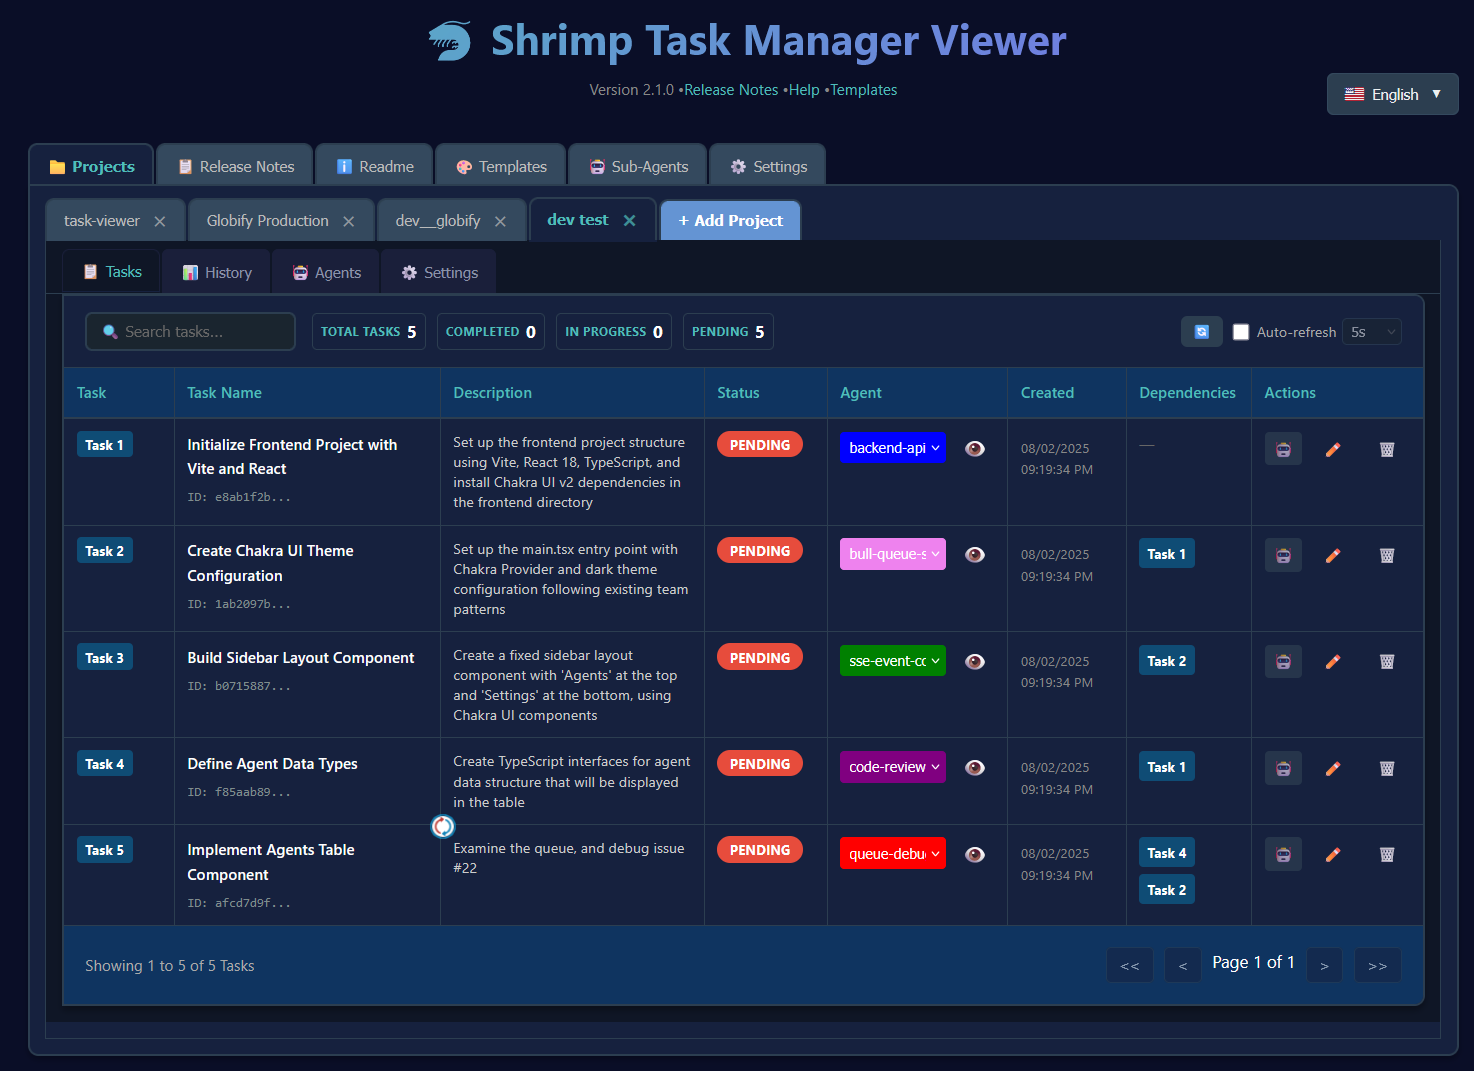
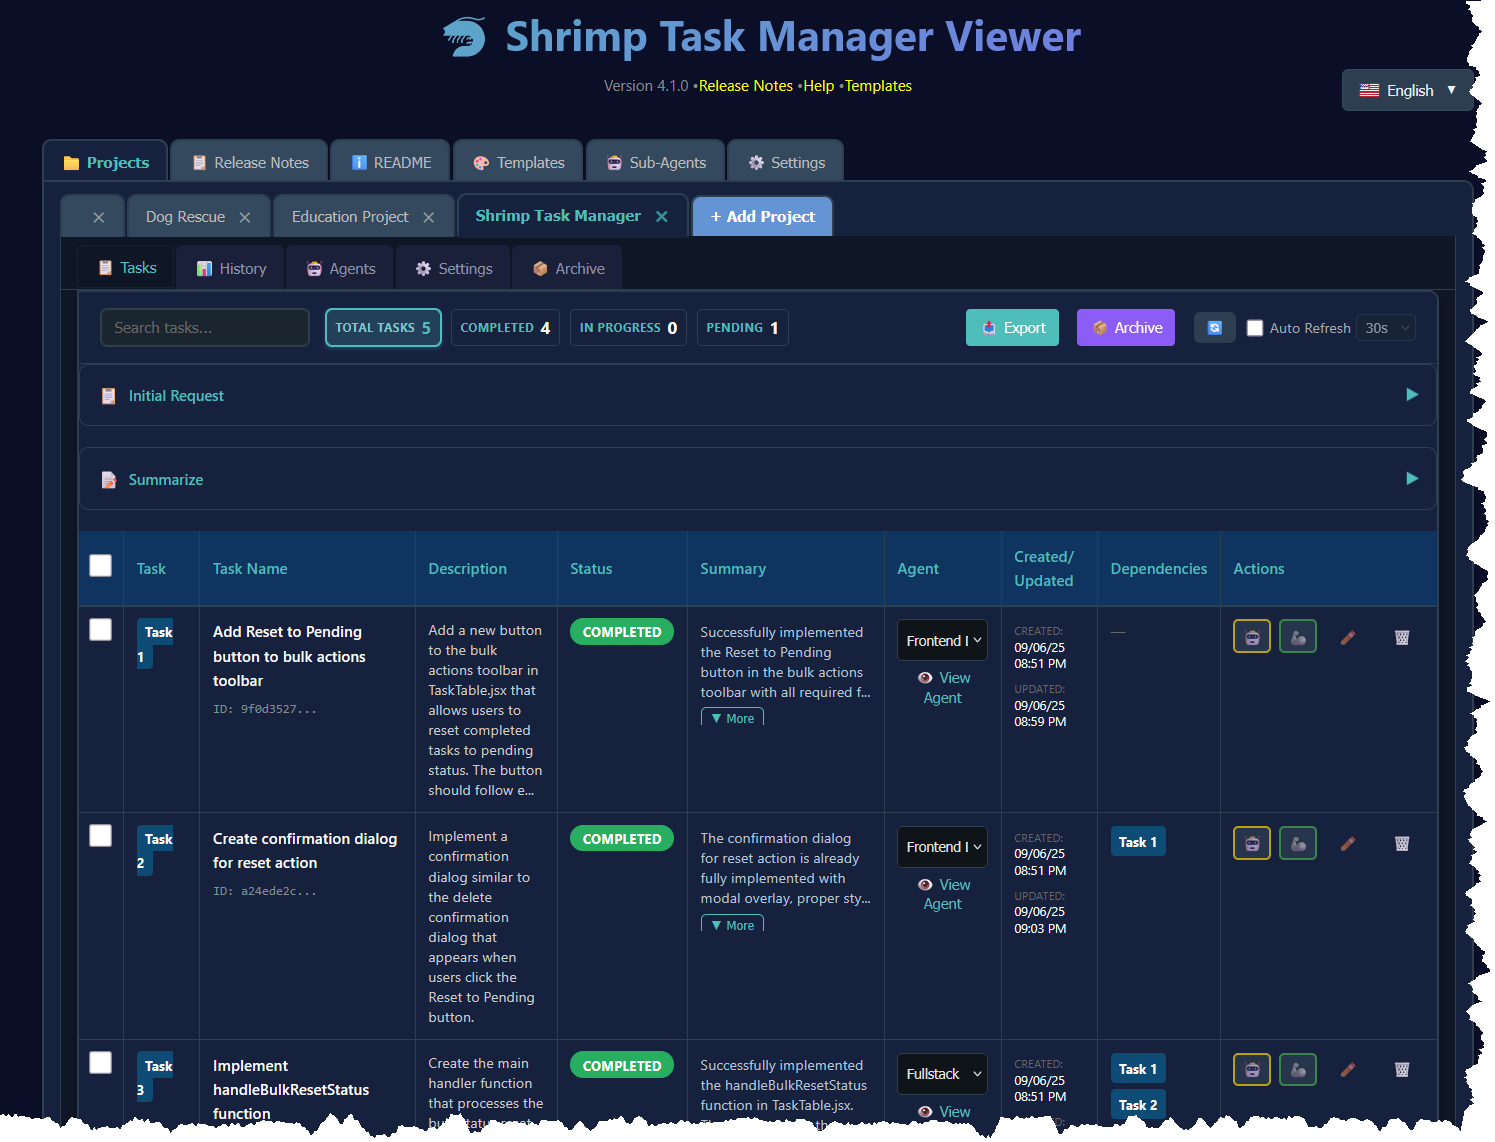
Update README with v4.1.0 and v4.0.0 release notes and new screenshot
- Add v4.1.0 release announcement with key features
- Include v4.0.0 major features section highlighting archive management
- Update available MCP tools documentation with 7 new archive/history tools
- Add Paul Pribisch to credits as Task Manager Viewer creator
- Replace Task Viewer interface screenshot with updated v4.1.0 interface
- Add archive management use case example
- Update tools.md with comprehensive MCP tool listings

🤖 Generated with [Claude Code](https://claude.ai/code)

diff --git a/README.md b/README.md
@@ -4,6 +4,31 @@
 
 > 🦐 **Intelligent task management for AI-powered development** - Break down complex projects into manageable tasks, maintain context across sessions, and accelerate your development workflow.
 
+## 📢 Latest Release - Version 4.1.0 (September 6, 2025)
+
+**🎯 Enhanced Task Completion & UI Improvements!**
+
+Version 4.1.0 introduces **structured task completion details** and **improved TaskTable UI** with summary preview functionality. Key highlights:
+
+- **📊 New Task Completion Details**: Structured data model for comprehensive task completion information
+- **🔍 Intelligent Summary Parser**: Advanced Markdown parser that extracts structured data from completion summaries
+- **📋 TaskTable Summary Preview**: Quick task overview with expandable summaries and optimized mobile design
+- **🎨 Enhanced Completion Display**: Rich visual presentation with organized sections and verification scores
+
+[📖 Full 4.1.0 Release Notes](tools/task-viewer/releases/v4.1.0.md)
+
+### Major Features from Version 4.0.0 (September 3, 2025)
+
+**🚀 Archive Management System** - Revolutionary task list archiving with complete context preservation
+
+**💡 Initial Request Display** - Permanently stores the original user request that initiated task planning
+
+**📚 Enhanced Release Notes** - Interactive experience with collapsible Table of Contents
+
+**🤖 7 New MCP Tools** - Complete programmatic access to archive and history functionality
+
+[📖 Full 4.0.0 Release Notes](tools/task-viewer/releases/v4.0.0.md)
+
 <div align="center">
   
 [![Shrimp Task Manager Demo](docs/yt.png)](https://www.youtube.com/watch?v=Arzu0lV09so)
@@ -143,6 +168,8 @@ Shrimp Task Manager is an MCP (Model Context Protocol) server that transforms ho
 - **🤖 Agent System**: Assign specialized AI agents to specific tasks ([Learn more](docs/agents.md))
 - **📏 Project Rules**: Define and maintain coding standards across your project
 - **💾 Task Memory**: Automatic backup and restoration of task history
+- **📚 Archive Management**: Store and restore complete task lists with full context preservation
+- **💡 Initial Request Tracking**: Permanently capture the original context behind task creation
 
 ### Web Interfaces
 
@@ -212,6 +239,24 @@ Agent: "plan task: migrate component to chosen framework"
 ```
 </details>
 
+<details>
+<summary><b>Archive Management</b></summary>
+
+```
+Agent: "plan task: implement user dashboard with analytics"
+# Agent creates comprehensive task list
+
+Agent: "create archive Dashboard_Implementation"
+# Archive tasks for later when priorities change
+
+Agent: "plan task: fix critical security vulnerability"
+# Work on urgent issue first
+
+Agent: "restore from archive Dashboard_Implementation"
+# Resume dashboard work with full context preserved
+```
+</details>
+
 ## 🛠 Configuration
 
 ### Environment Variables
@@ -239,6 +284,10 @@ PROMPT_LANGUAGE=en      # Prompt language (en, zh, etc.)
 | `list tasks` | Show all tasks |
 | `research [topic]` | Enter research mode |
 | `reflect task [id]` | Review and improve task |
+| `create archive [name]` | Create backup archive of tasks |
+| `restore from archive [id]` | Restore tasks from archive |
+| `get deleted tasks` | View history of deleted tasks |
+| `recover task [id]` | Restore previously deleted task |
 
 ## 🤝 Contributing
 
@@ -251,6 +300,9 @@ This project is licensed under the MIT License - see the [LICENSE](LICENSE) file
 ## 🌟 Credits
 
 Created by [cjo4m06](https://github.com/cjo4m06) and maintained by the community.
+
+**Special Thanks:**
+- [Paul Pribisch](https://github.com/paulpreibisch) - Creator of the Shrimp Task Manager Viewer interface
 
 ---
 

diff --git a/docs/tools.md b/docs/tools.md
@@ -37,7 +37,19 @@
 | Tool | Description | Example Usage |
 |------|-------------|---------------|
 | `get_task_detail` | Retrieve detailed task information | `"get details for task 1"` |
+| `get_task_history` | Get historical audit trail for tasks | `"get task history"` |
 | `clear_all_tasks` | Remove all tasks (with backup) | `"clear all tasks"` |
+
+### Task Archival & Recovery
+
+| Tool | Description | Example Usage |
+|------|-------------|---------------|
+| `create_archive` | Create backup archive of current tasks | `"create archive [name]"` |
+| `list_archives` | List all available task archives | `"list archives"` |
+| `restore_from_archive` | Restore tasks from archive | `"restore from archive [id]"` |
+| `sync_task_state` | Synchronize task state across systems | `"sync task state"` |
+| `get_deleted_tasks` | Retrieve information about deleted tasks | `"get deleted tasks"` |
+| `recover_task` | Recover a previously deleted task | `"recover task [id]"` |
 
 ## Project Management Tools
 
@@ -73,7 +85,16 @@
 
 ### 🧠 Memory Tools
 - `get_task_detail` - Retrieve history
+- `get_task_history` - Complete audit trail
 - `clear_all_tasks` - Clean slate with backup
+
+### 💾 Archival Tools
+- `create_archive` - Create task backups
+- `list_archives` - Browse available archives
+- `restore_from_archive` - Restore from backup
+- `sync_task_state` - Synchronize task state
+- `get_deleted_tasks` - View deleted task history
+- `recover_task` - Restore deleted tasks
 
 ### 🔬 Research Tools
 - `research_mode` - Technology exploration
